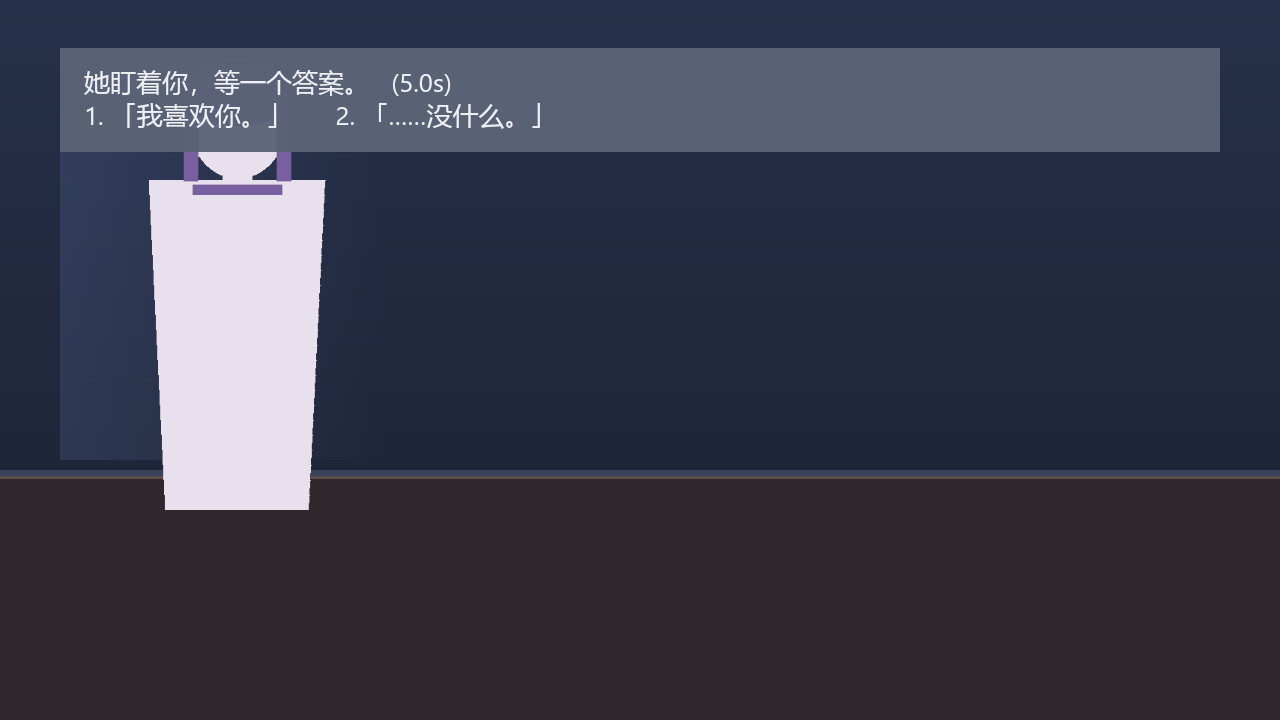
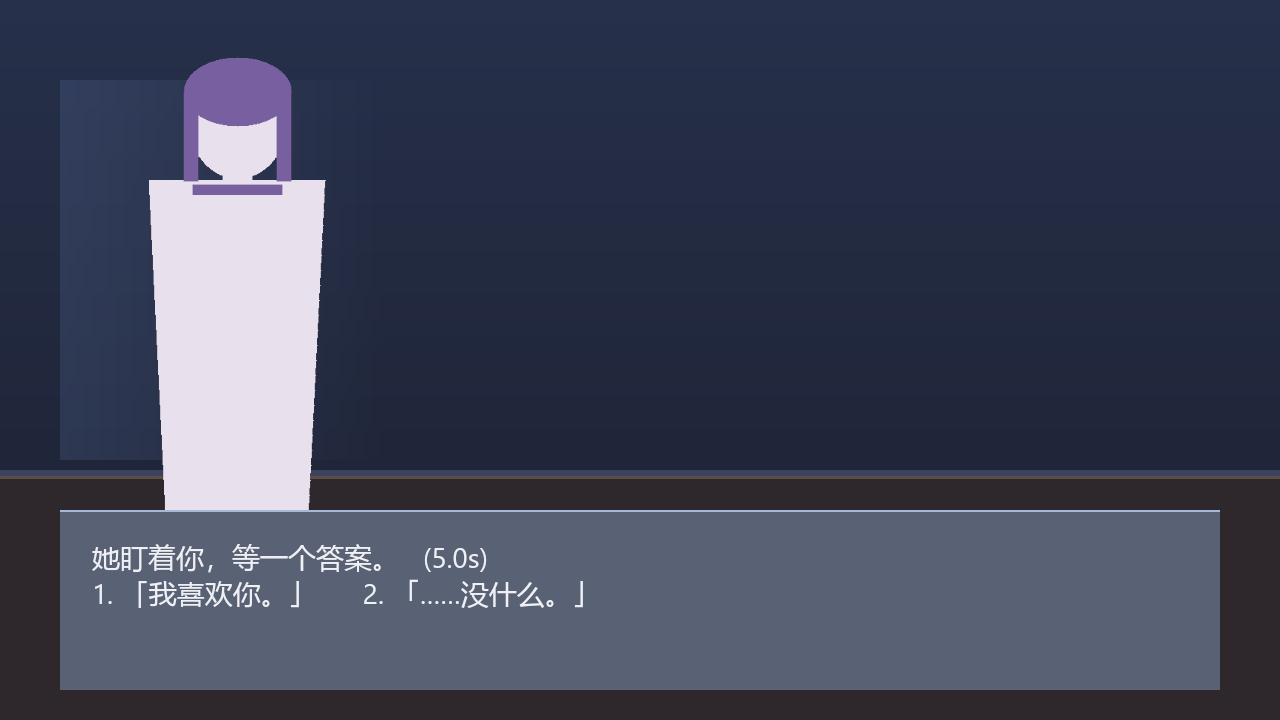
fix(scene): move the gameplay prompt where it does not cover the sprites
The prompt plate sat at the top of the frame, which is exactly where a sprite's
head is: sprites are 465px tall with feet on the dialogue box, so their top edge
lands around y=45 and the plate occupied y=48..152. The player lost the face of the
character they were being asked about while answering a question about her.

While a gameplay system has control there is no dialogue, so the prompt now takes
the dialogue box's place at the bottom. Nothing is covered and the prompt sits
where the player already expects text to appear.

Verified by re-rendering shots/gameplay.png: the sprite is fully visible.

diff --git a/apps/rustory/src/scene.rs b/apps/rustory/src/scene.rs
@@ -215,13 +215,25 @@ impl Scene<'_> {
         let Some(prompt) = self.gameplay_prompt else {
             return;
         };
-        // Two lines: the question and the numbered options beneath it.
-        let plate = Rect::new(60.0, 48.0, WIDTH as f32 - 120.0, 104.0);
+        // While a gameplay system has control there is no dialogue on screen, so
+        // the prompt takes the space the dialogue box would occupy. Putting it at
+        // the top instead would cover the sprites' heads, which is where the
+        // player is looking.
+        let plate = Rect::new(
+            DIALOGUE_BOX.x,
+            DIALOGUE_BOX.y,
+            DIALOGUE_BOX.width,
+            DIALOGUE_BOX.height,
+        );
         frame.push_quad(Quad::solid(plate, COL_CHOICE));
+        frame.push_quad(Quad::solid(
+            Rect::new(plate.x, plate.y, plate.width, 2.0),
+            COL_CHOICE_EDGE,
+        ));
         frame.push_text(
-            TextItem::new(prompt, plate.x + 24.0, plate.y + 16.0, 26.0)
+            TextItem::new(prompt, plate.x + 32.0, plate.y + 28.0, 28.0)
                 .with_color(COL_TEXT)
-                .with_wrap(plate.width - 48.0),
+                .with_wrap(plate.width - 64.0),
         );
     }
 
